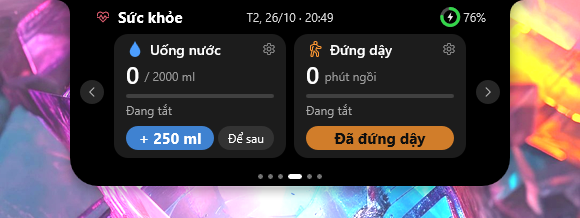
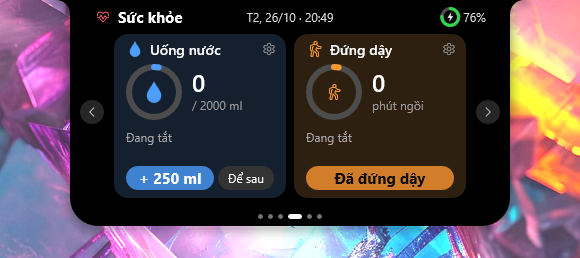
feat(health): the Health page is taller, cards wear their colour, and a progress ring with the card's picture replaces the thin bar

diff --git a/src/render.rs b/src/render.rs
@@ -279,7 +279,7 @@ pub fn panel_size(page: Page) -> [f32; 2] {
     let [w, h, _] = target(Mode::Expanded, false);
     match page {
         // Four task cards instead of three.
-        Page::Todo | Page::Notify => [w, h + 40.0],
+        Page::Todo | Page::Notify | Page::Health => [w, h + 40.0],
         _ => [w, h],
     }
 }
@@ -324,7 +324,7 @@ const CLEAR_Y: f32 = 36.0;
 const CLEAR_PAD: f32 = 9.0;
 /// Health page cards.
 const CARD_TOP: f32 = 34.0;
-const CARD_BOTTOM: f32 = 158.0;
+const CARD_BOTTOM: f32 = 198.0;
 const CARD_W: f32 = 172.0;
 const CARD_GAP: f32 = 8.0;
 /// Which apps (bit per `usage::APPS` index) have a tab on the Limits page: those found on this PC.
@@ -2534,8 +2534,9 @@ impl Renderer {
                             for card in [Card::Water, Card::Sit] {
                                 let x = if card == Card::Water { cl } else { cl + (CARD_W + CARD_GAP) * s };
                                 let cb = rect(x, CARD_TOP * s, x + CARD_W * s, CARD_BOTTOM * s);
-                                rt.FillRoundedRectangle(&rounded(cb, 14.0 * s), &self.brush(grey(0.11, a))?);
                                 let accent = if card == Card::Water { BLUE } else { ORANGE };
+                                // The card carries a wash of its own colour.
+                                rt.FillRoundedRectangle(&rounded(cb, 14.0 * s), &self.brush(color(accent.0 * 0.14 + 0.04, accent.1 * 0.14 + 0.04, accent.2 * 0.14 + 0.04, a))?);
                                 // Title row: icon, name, gear.
                                 let ty = (CARD_TOP + 4.0) * s;
                                 let ib = rect(x + 10.0 * s, ty, x + 32.0 * s, ty + 22.0 * s);
@@ -2620,15 +2621,21 @@ impl Renderer {
                                         else { format!("{} {} {}", tr("Nhắc sau", "Reminder in"), (h.sit_every_min as i64 - sat).max(0), tr("phút", "min")) };
                                     (sat.to_string(), format!(" {}", tr("phút ngồi", "min sitting")), sat as f32 / h.sit_every_min.max(1) as f32, status, tr("Đã đứng dậy", "I stood up").to_string())
                                 };
-                                let by = 60.0 * s;
-                                let bw = width(&big, F_BIG);
-                                text(&big, F_BIG, rect(x + 12.0 * s, by, x + CARD_W * s - 8.0 * s, by + 28.0 * s), lead, grey(1.0, a))?;
-                                text(&unit, F_LABEL, rect(x + 12.0 * s + bw + 2.0 * s, by + 6.0 * s, x + CARD_W * s - 8.0 * s, by + 26.0 * s), lead, grey(0.6, a))?;
+                                // A ring of the day's progress with the card's own picture in it; the figure and
+                                // its unit beside it, the status line under both.
                                 let (bl, br_) = (x + 12.0 * s, x + CARD_W * s - 12.0 * s);
-                                let bar = |right: f32| rounded(rect(bl, 94.0 * s, right, 98.0 * s), 2.0 * s);
-                                rt.FillRoundedRectangle(&bar(br_), &self.brush(grey(0.25, a))?);
-                                rt.FillRoundedRectangle(&bar(bl + (br_ - bl) * frac.clamp(0.0, 1.0)), &self.brush(solid(accent, a))?);
-                                text(&status, F_LABEL, rect(bl, 101.0 * s, br_, 119.0 * s), lead, grey(0.65, a))?;
+                                let hub = (bl + 28.0 * s, (CARD_TOP + 58.0) * s);
+                                self.draw_ring(hub, 56.0 * s, 6.0 * s, frac, accent, a)?;
+                                if card == Card::Water {
+                                    let g = self.water_drop(hub.0, hub.1, 22.0 * s)?;
+                                    rt.FillGeometry(&g, &self.brush(solid(accent, a))?, None);
+                                } else {
+                                    text(ICON_WALK, F_ICON, rect(hub.0 - 14.0 * s, hub.1 - 14.0 * s, hub.0 + 14.0 * s, hub.1 + 14.0 * s), center, solid(accent, a))?;
+                                }
+                                let (tx, by) = (bl + 66.0 * s, (CARD_TOP + 34.0) * s);
+                                text(&big, F_BIG, rect(tx, by, br_, by + 28.0 * s), lead, grey(1.0, a))?;
+                                text(unit.trim(), F_LABEL, rect(tx, by + 28.0 * s, br_, by + 46.0 * s), lead, grey(0.6, a))?;
+                                text(&status, F_LABEL, rect(bl, (CARD_TOP + 94.0) * s, br_, (CARD_TOP + 112.0) * s), lead, grey(0.65, a))?;
                                 let ab = if card == Card::Water { Button::Drink } else { Button::Stood };
                                 if let Some(pb) = rect_of(ab) {
                                     let hot = hovered == Some(ab);
@@ -3525,6 +3532,10 @@ mod tests {
             for (name, mode, music, page, lyrics, wx, battery, time, date) in shots {
                 let live = music.is_some();
                 let mut size = target(mode, live);
+                if mode == Mode::Expanded {
+                    let [w, h] = panel_size(page);
+                    (size[0], size[1]) = (w, h);
+                }
                 if lyrics {
                     size[0] += LYRICS_EXTRA_W;
                 }

diff --git a/tools/readme_shots.py b/tools/readme_shots.py
@@ -20,7 +20,7 @@ BACKDROP = os.path.join(ROOT, "assets", "backdrop.jpg")
 SIZES = {
     "pill-idle": (260, 44), "pill-music": (260, 44), "weather-pill": (260, 44), "weather-pill-music": (260, 44),
     "style-pill-idle": (260, 50), "style-pill-music": (260, 50),
-    "page-music": (580, 218), "page-music-empty": (580, 218), "page-health": (580, 218), "page-weather": (580, 218),
+    "page-music": (580, 218), "page-music-empty": (580, 218), "page-health": (580, 258), "page-weather": (580, 218),
     "page-tasks": (580, 258), "page-notifications": (580, 258),
     "page-usage-claude": (580, 218), "page-usage-codex": (580, 218), "page-usage-antigravity": (580, 218),
     "style-pill-page": (580, 224),
